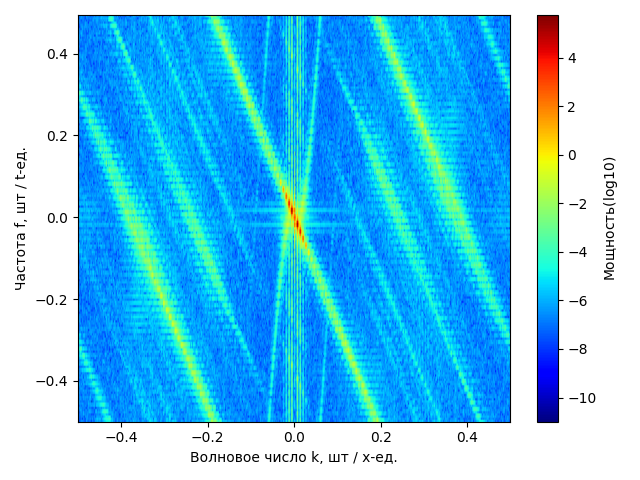
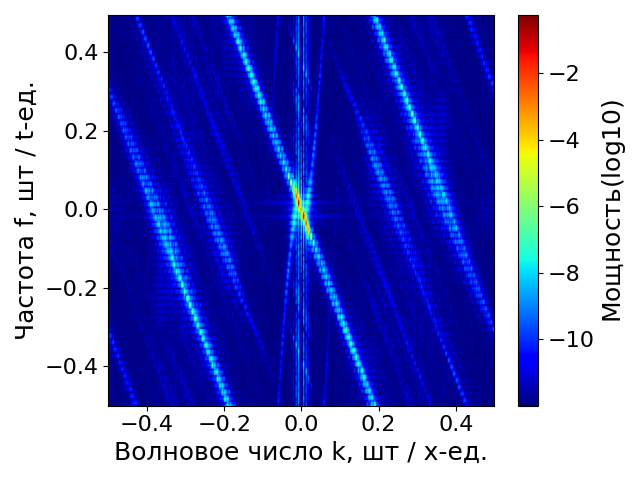
v1 up

diff --git a/processing_part1.py b/processing_part1.py
@@ -38,7 +38,7 @@ from numpy.fft import fft2, fftshift, fftfreq
 
 nx_max = 1500
 ny_max = 60
-v = 6
+v = 1
 dt_step = 0.001
 x_frac_start = 0.3 
 x_frac_end = 1.0

diff --git a/processing_part4.py b/processing_part4.py
@@ -39,7 +39,7 @@ import pandas as pd
 
 nx_max = 1500
 ny_max = 60
-v = 6
+v = 2
 dt_step = 0.001
 x_frac_start = 0.3 
 x_frac_end = 1.0
